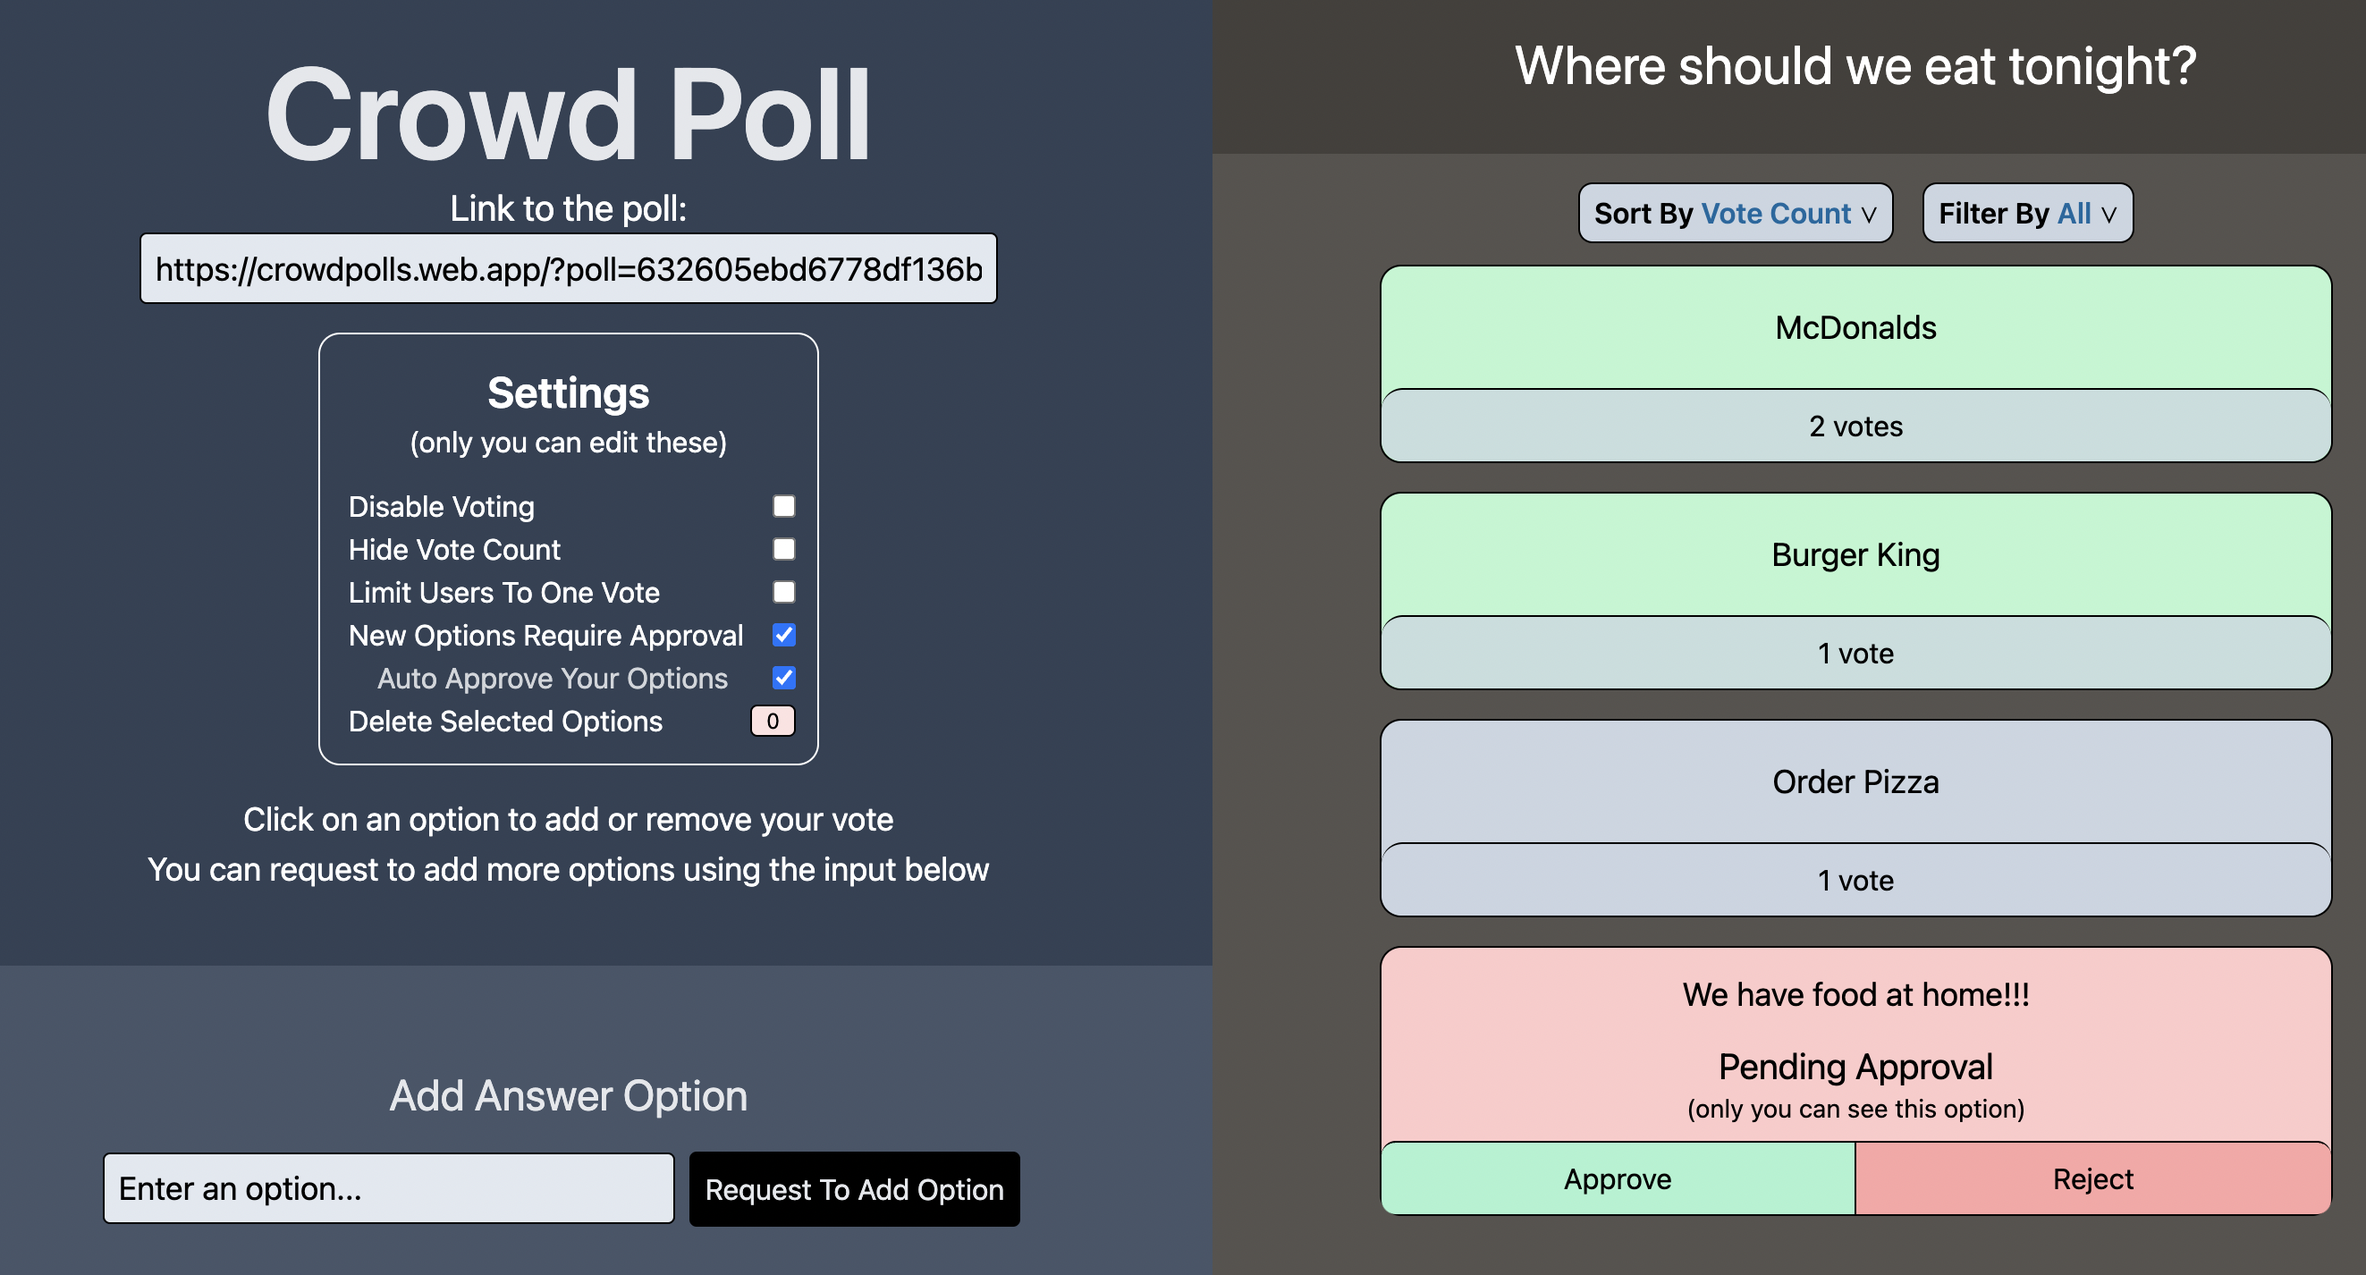
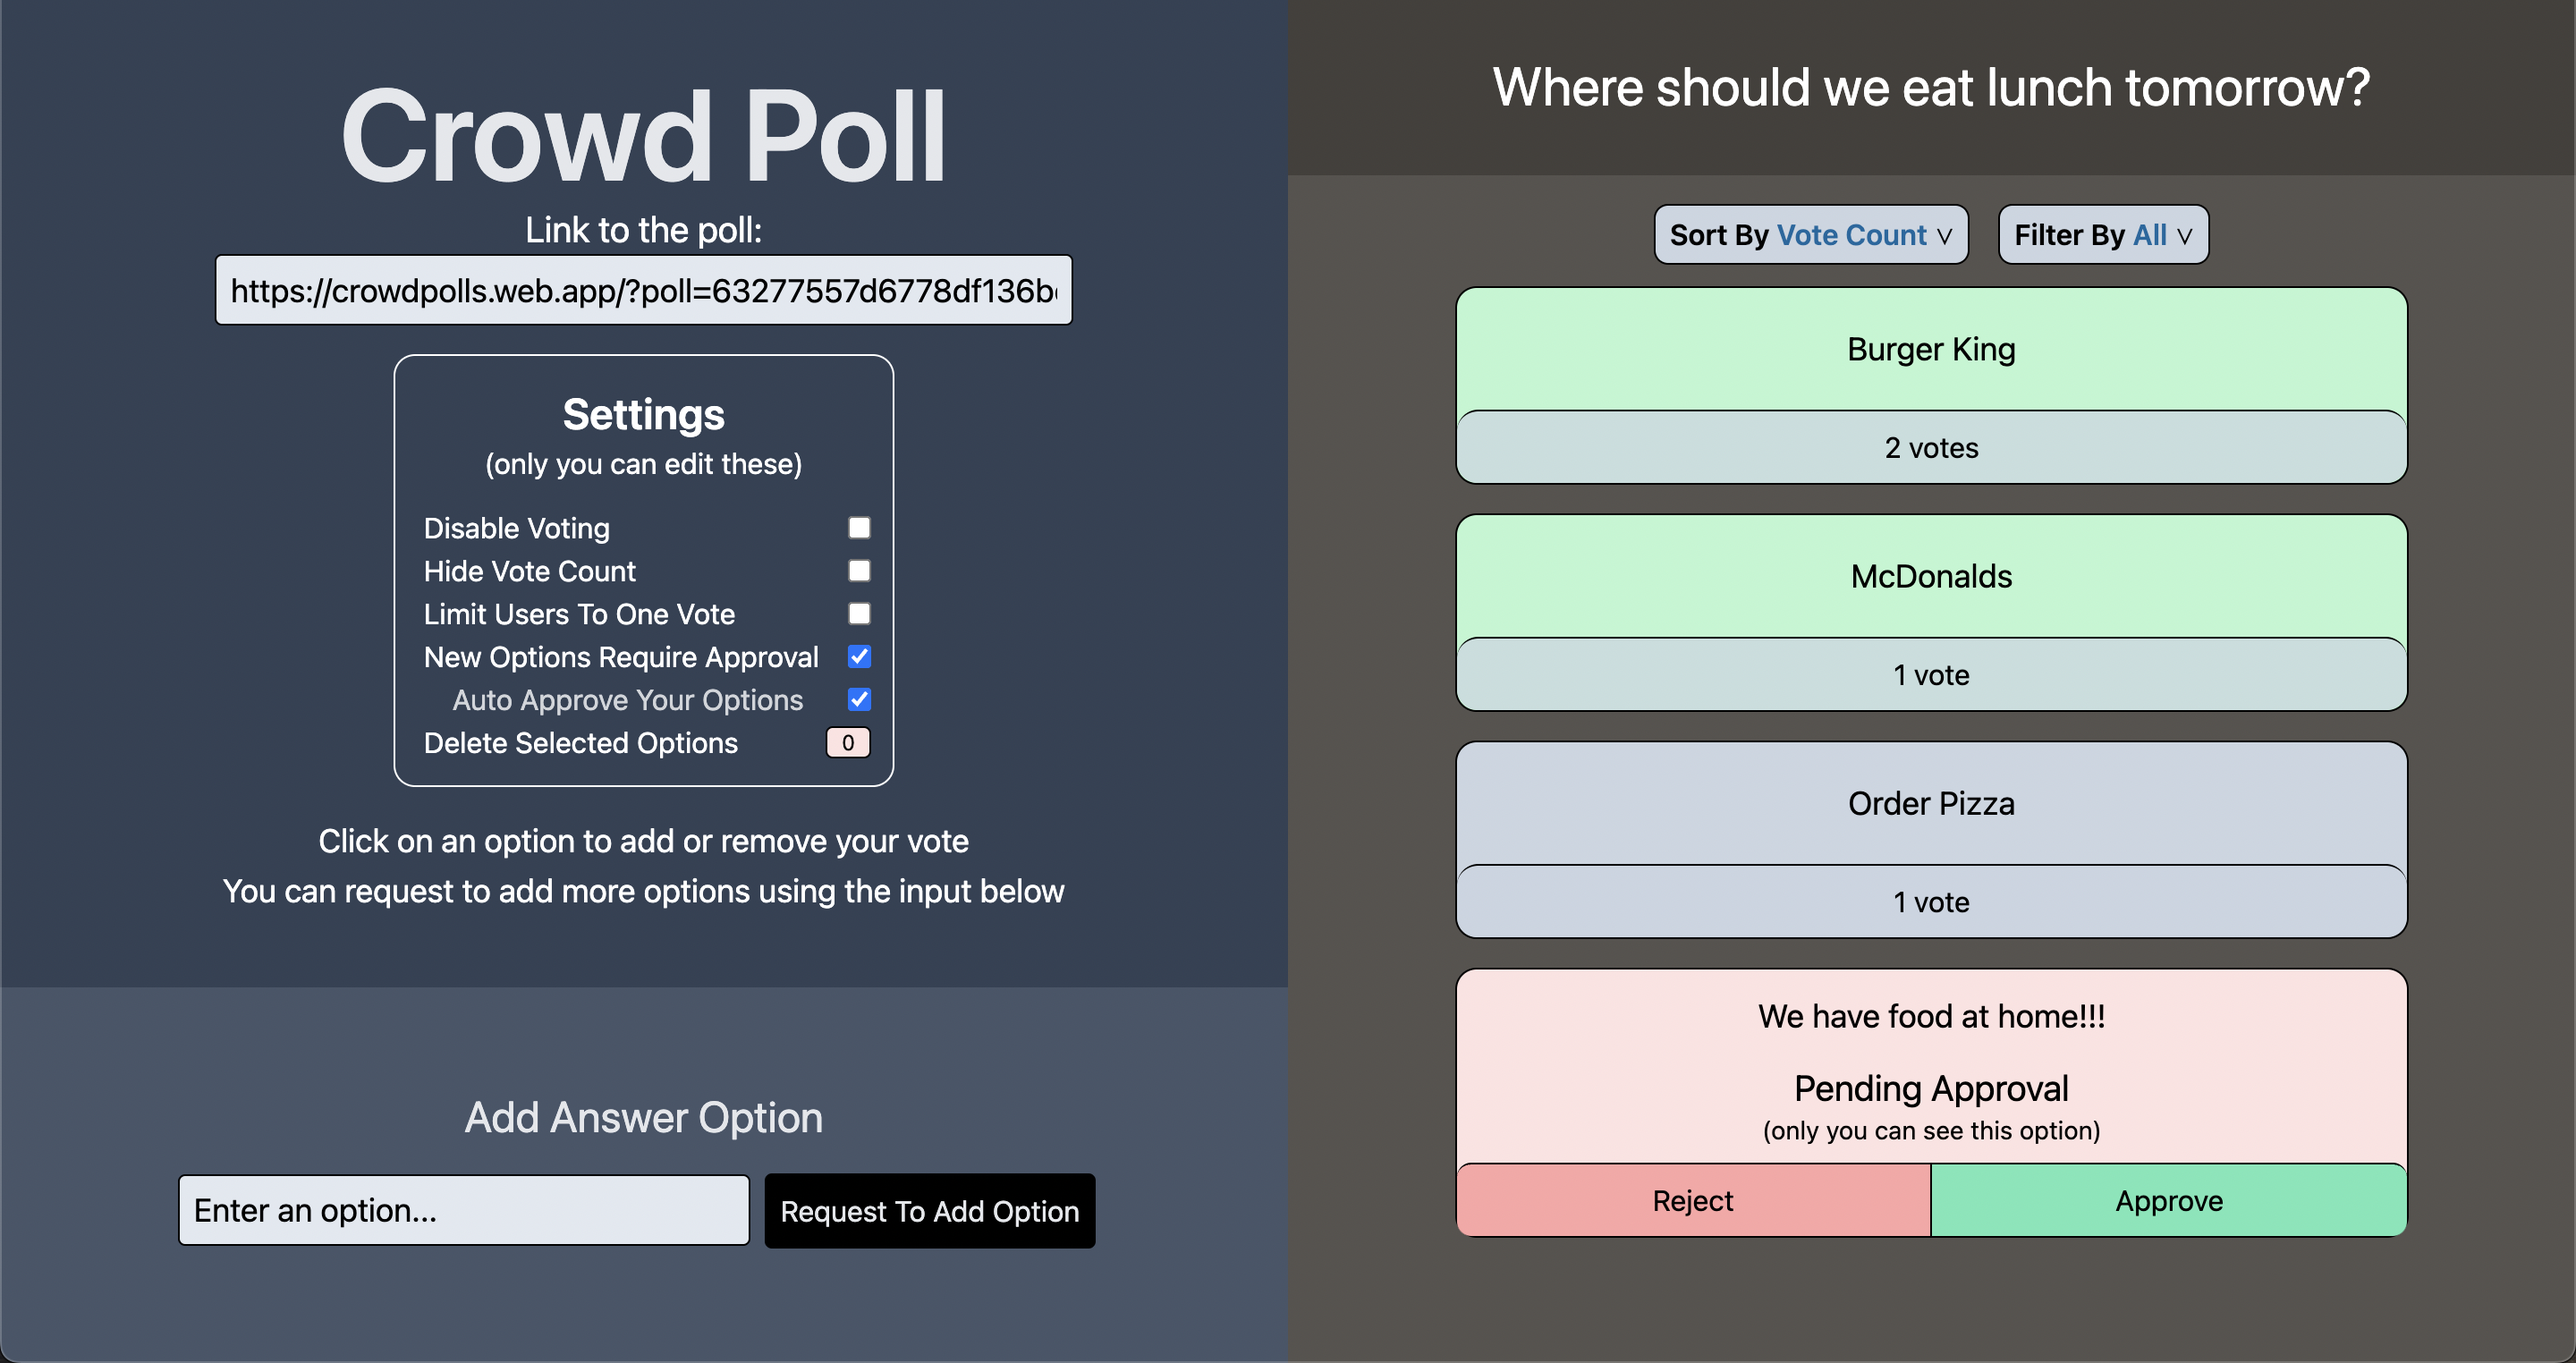
Update approve/deny button positions

diff --git a/frontend/src/Option.js b/frontend/src/Option.js
@@ -83,7 +83,7 @@ function Option(props) {
 
 
     if (!props.approved)
-        var color = "bg-red-200"
+        var color = "bg-red-100"
     else if (selected)
         color = "bg-blue-200"
     else if (voting)
@@ -127,13 +127,13 @@ function Option(props) {
             <div className = "text-sm mb-2"> {"(only you can see this option)"} </div>
 
             <div>
-                <button onClick = {() => {approveDenyOption(true)}} className="inline border-t border-t-black border-r border-r-black bg-emerald-200  w-1/2 px-3 py-2 rounded-l-lg">
-                    {"Approve"}
-                </button>   
-
-                <button onClick = {() => {approveDenyOption(false)}} className="inline border-t border-t-black bg-red-300 w-1/2 px-3 py-2 rounded-r-lg">
+                <button onClick = {() => {approveDenyOption(false)}} className="inline border-t border-t-black border-r border-r-black bg-red-300 w-1/2 px-3 py-2 rounded-l-lg">
                     {"Reject"}
                 </button>
+
+                <button onClick = {() => {approveDenyOption(true)}} className="inline border-t border-t-black  bg-emerald-300  w-1/2 px-3 py-2 rounded-r-lg">
+                    {"Approve"}
+                </button>   
             </div>
         </div>
     )
